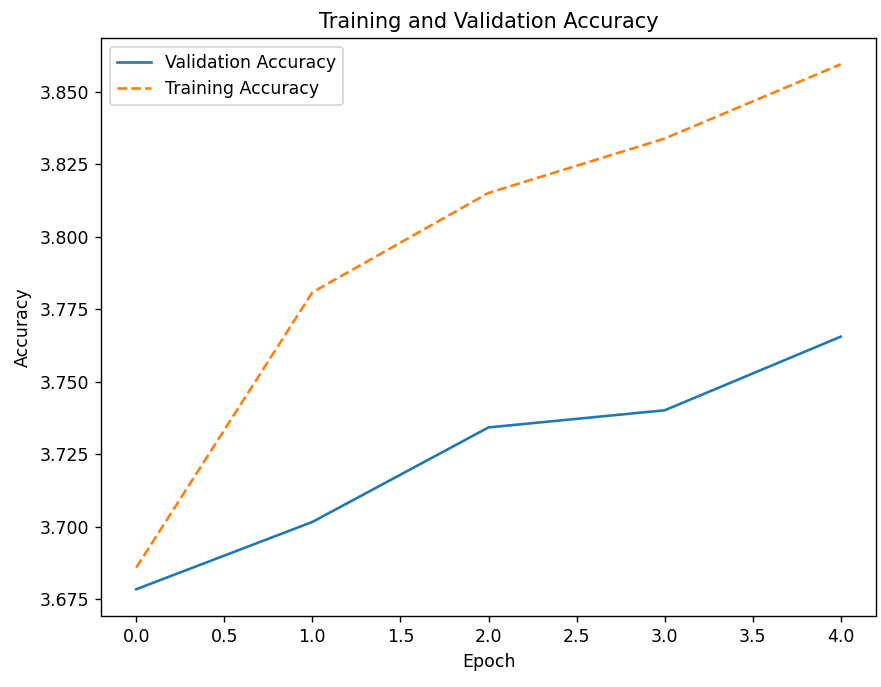
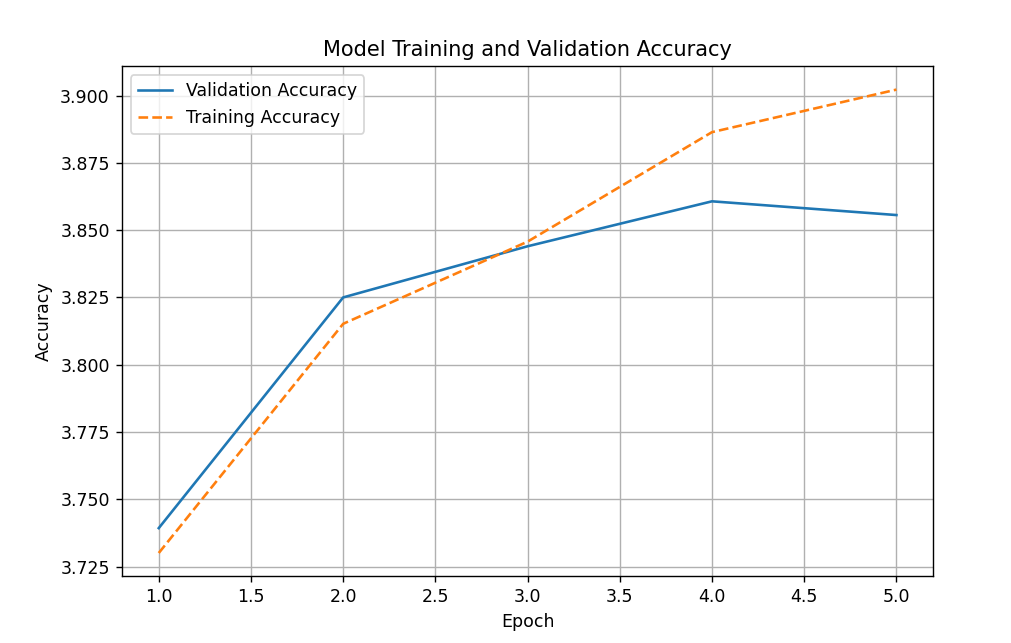
bug fixed

diff --git a/CNN_training_model/model.py b/CNN_training_model/model.py
@@ -44,7 +44,9 @@ class CIFAR10Trainer(keras.Model):
             super().__init__()
             if num_epochs < 1:
                 raise ValueError("num_epochs must be greater than 0")
-            self.num_epochs: int = num_epochs + 1
+            if num_epochs > 20:
+                raise ValueError("num_epochs must not be greater than 20")
+            self.num_epochs: int = num_epochs
             self.x_train: np.ndarray = None
             self.y_train: np.ndarray = None
             self.x_test: np.ndarray = None
@@ -73,7 +75,9 @@ class CIFAR10Trainer(keras.Model):
             self.evaluate_model()
             self.plot_accuracy(history)
         except Exception as e:
-            print(f"An error occurred in the main function of CIFAR10Trainer class: {str(e)}")
+            print(
+                f"An error occurred in the main function of CIFAR10Trainer class: {str(e)}"
+            )
 
     def load_dataset(
         self, batch_size: int = BATCH_SIZE
@@ -264,12 +268,18 @@ class CIFAR10Trainer(keras.Model):
             Args:
                 history (dict): Training history containing accuracy and validation accuracy for each epoch.
             """
-            plt.figure(figsize=(self.num_epochs, 6))
-            plt.plot(history["val_accuracy"], label="Validation Accuracy")
-            plt.plot(history["accuracy"], linestyle="--", label="Training Accuracy")
+            plt.figure(figsize=(8, self.num_epochs - 1))
+            x_values = range(
+                1, len(history["val_accuracy"]) + 1
+            )
+            plt.plot(x_values, history["val_accuracy"], label="Validation Accuracy")
+            plt.plot(
+                x_values, history["accuracy"], linestyle="--", label="Training Accuracy"
+            )
             plt.xlabel("Epoch")
             plt.ylabel("Accuracy")
-            plt.title("Training and Validation Accuracy")
+            plt.title("Model Training and Validation Accuracy")
+            plt.grid(True)
             plt.legend()
             plt.show()
         except Exception as e:

diff --git a/CNN_training_model/main.py b/CNN_training_model/main.py
@@ -1,13 +1,14 @@
 from model import CIFAR10Trainer
 
+
 def main() -> None:
     try:
-        num_epochs: int = 2
+        num_epochs: int = 5
         model: CIFAR10Trainer = CIFAR10Trainer(num_epochs)
         model.main()
     except Exception as e:
         print(f"An error occurred in the main function of main.py: {str(e)}")
 
+
 if __name__ == "__main__":
     main()
-
